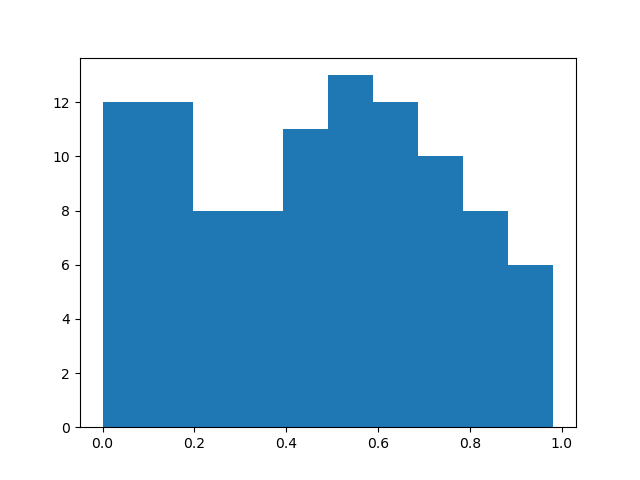
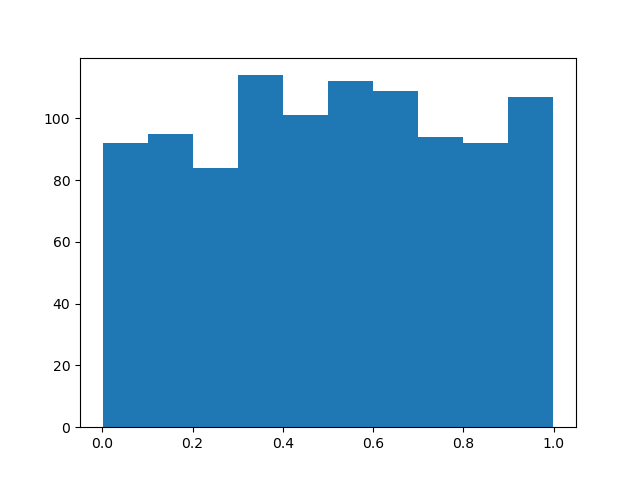
generic commit

diff --git a/scripts/fit_kernel.py b/scripts/fit_kernel.py
@@ -49,7 +49,7 @@ def update_list_dict(Dict, update):
     return Dict
 
 
-def train_kernel_transport(kernel_model, n_iters = 30):
+def train_kernel_transport(kernel_model, n_iters = 400):
     optimizer = torch.optim.Adam(kernel_model.parameters(), lr=kernel_model.params['learning_rate'])
     Loss_dict = {'n_iter': [], 'fit': [], 'reg': [], 'total': []}
     kernel_model.train()
@@ -58,6 +58,9 @@ def train_kernel_transport(kernel_model, n_iters = 30):
         if not i % kernel_model.params['print_freq']:
             print(f'At step {i}: fit_loss = {round(float(loss_dict["fit"]),2)}, reg_loss = {round(float(loss_dict["reg"]),2)}')
             Loss_dict = update_list_dict(Loss_dict, loss_dict)
+        if not i % 5:
+            sample_hmap(kernel_model.Z.detach().T,'../data/Y_tilde_hmap.png', d = 1)
+
     return kernel_model, Loss_dict
 
 
@@ -86,25 +89,24 @@ def sample_hmap(sample, save_loc, bins = 10, d = 2):
 
 
 def run():
-    X = sample_uniform(N = 100, d = 1)
-    Y = sample_normal(N = 100, d = 1)
+    X = sample_uniform(N = 1000, d = 1)
+    Y = sample_normal(N = 1000, d = 1)
 
     sample_hmap(X, '../data/X_hmap.png', d = 1)
     sample_hmap(Y, '../data/Y_hmap.png', d = 1)
 
-    fit_kernel_params = {'name': 'radial', 'l': 10, 'sigma': 1}
-    mmd_kernel_params = {'name': 'radial', 'l': 10, 'sigma': 1}
+    fit_kernel_params = {'name': 'radial', 'l': .3, 'sigma': 1}
+    mmd_kernel_params = {'name': 'radial', 'l': .02, 'sigma': 1}
 
     model_params = {'X': X, 'Y': Y, 'fit_kernel_params': fit_kernel_params, 'mmd_kernel_params': mmd_kernel_params,
-                    'reg_lambda': 1, 'print_freq': 1, 'learning_rate':.15, 'nugget': .05}
+                    'reg_lambda': 1, 'print_freq': 1, 'learning_rate':.15, 'nugget': .01}
 
     kernel_model = TransportKernel(model_params)
     train_kernel_transport(kernel_model)
 
-    #X_tilde = sample_uniform(200, d = 1)
-    Y_tilde = kernel_model.map_z(X).detach().cpu().numpy()
-    sample_hmap(Y_tilde, '../data/Y_tilde_hmap.png', d = 1)
-
+    X_tilde = sample_uniform(1000, d = 1)
+    Y_tilde = kernel_model.map_z(X_tilde).detach().cpu().numpy()
+    sample_hmap(Y_tilde.T, '../data/Y_tilde_hmap_2.png', d = 1)
 
 
 

diff --git a/scripts/transport_kernel.py b/scripts/transport_kernel.py
@@ -3,6 +3,7 @@ import torch
 import numpy as np
 import matplotlib.pyplot as plt
 from copy import deepcopy
+import time
 
 
 def fast_k_matrix(X,X_tilde):
@@ -71,7 +72,10 @@ class TransportKernel(nn.Module):
         self.Z = nn.Parameter(self.init_Z(), requires_grad=True)
 
 
-    def rad_kernel(self, norm_diffs, l = 1, sigma = 1):
+    def rad_kernel(self, norm_diffs, kern_params):
+        l =  kern_params['l']
+        sigma = kern_params['sigma']
+        (sigma ** 2) * torch.exp(-norm_diffs ** 2 / (2 * (l ** 2)))
         return (sigma ** 2) * torch.exp(-norm_diffs ** 2 / (2 * (l ** 2)))
 
 
@@ -86,7 +90,7 @@ class TransportKernel(nn.Module):
 
 
     def init_Z(self):
-        return deepcopy(self.Y)
+        return self.X.detach()
 
 
     def init_Lambda(self):
@@ -94,9 +98,14 @@ class TransportKernel(nn.Module):
         Lambda_0 = torch.zeros(N,d, device = self.device, dtype= self.dtype)
         return nn.init.normal_(Lambda_0)
 
-    def get_rad_kX1X2(self, X_1, X_2):
+
+    def get_rad_kX1X2(self, X_1, X_2, kern = 'fit'):
+        if kern == 'fit':
+            kern_params = self.params['fit_kernel_params']
+        elif kern == 'mmd':
+            kern_params = self.params['mmd_kernel_params']
         k_X1X2 = fast_k_matrix(X_1,X_2)
-        return self.rad_kernel(k_X1X2)
+        return self.rad_kernel(k_X1X2, kern_params)
 
     def get_kX1X2(self, kernel, X_1, X_2):
         N_1 = len(X_1)
@@ -129,6 +138,7 @@ class TransportKernel(nn.Module):
         return Lambda.T @ self.get_kXx(self.fit_kernel, x)
 
 
+
     def loss_fit(self):
         fit_kXX = self.fit_kXX
         mmd_kXX = self.mmd_kXX
@@ -139,8 +149,8 @@ class TransportKernel(nn.Module):
 
 
     def loss_fit_z(self):
-        k_ZZ = self.get_kX1X2(self.mmd_kernel, self.Z, self.Z)
-        k_ZY = self.get_kX1X2(self.mmd_kernel, self.Z, self.Y)
+        k_ZZ = self.get_rad_kX1X2(self.Z, self.Z, kern = 'mmd')
+        k_ZY = self.get_rad_kX1X2(self.Z, self.Y, kern = 'mmd')
         return torch.sum(k_ZZ) - 2*(torch.sum(k_ZY))
 
 
